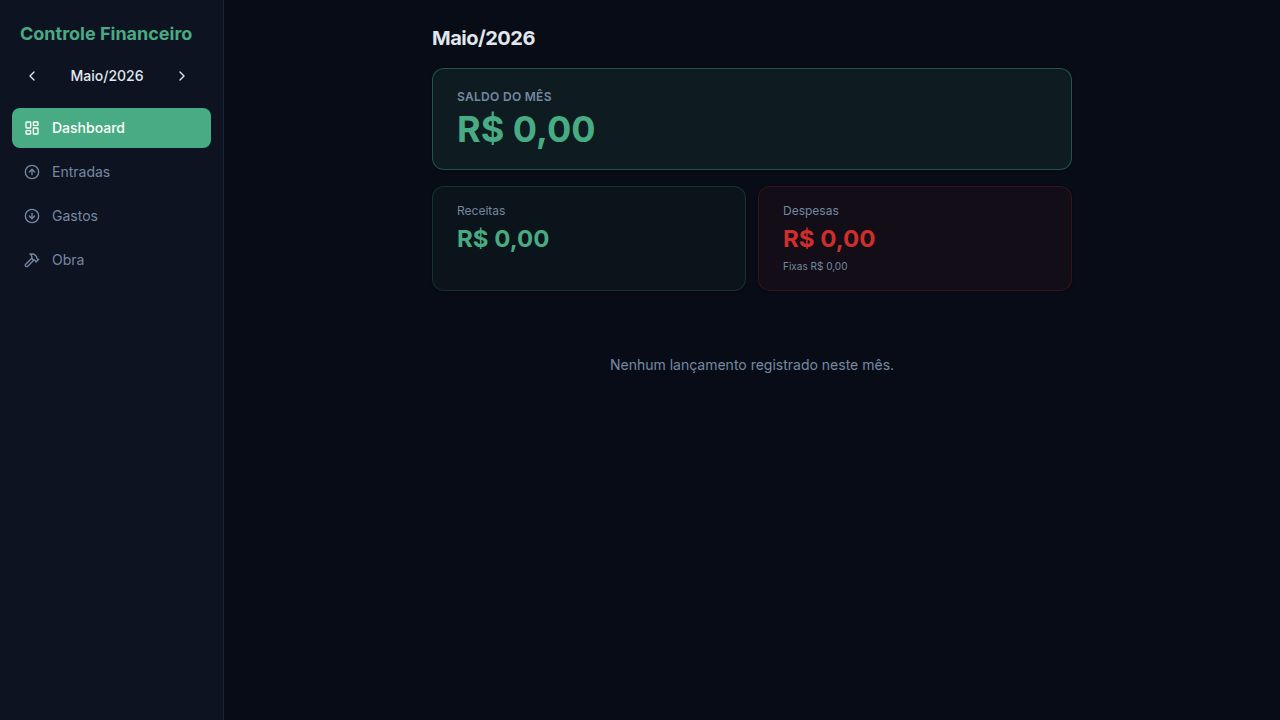
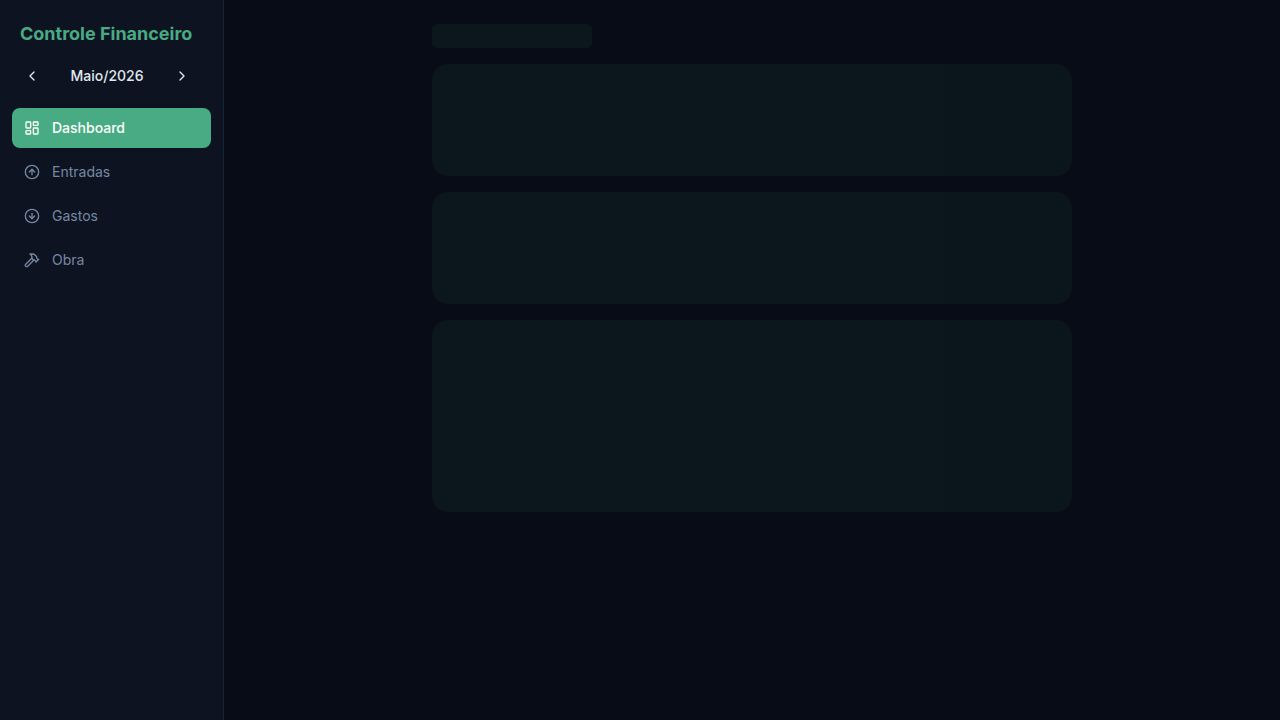
Adjust financial display values to fit better on mobile screens
Update font sizes and apply word-breaking to financial summary cards across dashboard, income, and expense pages to ensure readability on smaller viewports.

Replit-Commit-Author: Agent
Replit-Commit-Session-Id: 07a1a227-7db7-4ac0-8c3b-9105250a2b3c
Replit-Commit-Checkpoint-Type: full_checkpoint
Replit-Commit-Event-Id: 6fee881f-464e-4960-8eed-000a09e708b8
Replit-Commit-Screenshot-Url: https://storage.googleapis.com/screenshot-production-us-central1/a6cc8d7f-49c7-419e-835b-ef4e2de78bc1/07a1a227-7db7-4ac0-8c3b-9105250a2b3c/WjtcErR
Replit-Helium-Checkpoint-Created: true

diff --git a/artifacts/financeiro/src/pages/dashboard.tsx b/artifacts/financeiro/src/pages/dashboard.tsx
@@ -54,7 +54,7 @@ export default function Dashboard() {
           <Card className={`transition-all duration-150 ${summary.balance >= 0 ? "border-primary/40 bg-primary/10 hover:bg-primary/15" : "border-destructive/40 bg-destructive/10 hover:bg-destructive/15"}`}>
             <CardContent className="pt-5 pb-5">
               <p className="text-xs font-semibold text-muted-foreground uppercase tracking-wide mb-1">Saldo do mês</p>
-              <p className={`text-4xl font-bold ${summary.balance >= 0 ? "text-primary" : "text-destructive"}`}>
+              <p className={`text-3xl font-bold break-all ${summary.balance >= 0 ? "text-primary" : "text-destructive"}`}>
                 {formatCurrency(summary.balance)}
               </p>
             </CardContent>
@@ -65,13 +65,13 @@ export default function Dashboard() {
             <Card className="border-primary/20 bg-primary/5 hover:bg-primary/10 transition-all duration-150">
               <CardContent className="pt-4 pb-4">
                 <p className="text-xs text-muted-foreground mb-1">Receitas</p>
-                <p className="text-2xl font-bold text-primary">{formatCurrency(summary.totalIncome)}</p>
+                <p className="text-lg font-bold text-primary break-all">{formatCurrency(summary.totalIncome)}</p>
               </CardContent>
             </Card>
             <Card className="border-destructive/20 bg-destructive/5 hover:bg-destructive/10 transition-all duration-150">
               <CardContent className="pt-4 pb-4">
                 <p className="text-xs text-muted-foreground mb-1">Despesas</p>
-                <p className="text-2xl font-bold text-destructive">{formatCurrency(summary.totalExpenses)}</p>
+                <p className="text-lg font-bold text-destructive break-all">{formatCurrency(summary.totalExpenses)}</p>
                 <p className="text-[10px] text-muted-foreground mt-1">Fixas {formatCurrency(summary.fixedTotal)}</p>
               </CardContent>
             </Card>
@@ -82,7 +82,7 @@ export default function Dashboard() {
             <Card className="border-amber-500/30 bg-amber-500/10 hover:bg-amber-500/15 transition-all duration-150">
               <CardContent className="pt-4 pb-4">
                 <p className="text-xs text-amber-400/80 mb-1 font-medium">Obra este mês</p>
-                <p className="text-2xl font-bold text-amber-400">{formatCurrency(summary.obraTotal)}</p>
+                <p className="text-lg font-bold text-amber-400 break-all">{formatCurrency(summary.obraTotal)}</p>
               </CardContent>
             </Card>
           )}

diff --git a/artifacts/financeiro/src/pages/gastos.tsx b/artifacts/financeiro/src/pages/gastos.tsx
@@ -246,19 +246,19 @@ export default function Gastos() {
           <Card className="border-destructive/30 bg-destructive/10 hover:bg-destructive/15 transition-all duration-150">
             <CardContent className="py-3 px-3">
               <p className="text-[10px] text-muted-foreground mb-0.5">Total</p>
-              <p className="text-base font-bold text-destructive">{formatCurrency(total)}</p>
+              <p className="text-sm font-bold text-destructive break-all">{formatCurrency(total)}</p>
             </CardContent>
           </Card>
           <Card className="border-primary/20 bg-primary/5 hover:bg-primary/10 transition-all duration-150">
             <CardContent className="py-3 px-3">
               <p className="text-[10px] text-muted-foreground mb-0.5">Fixos</p>
-              <p className="text-base font-bold text-primary">{formatCurrency(fixedTotal)}</p>
+              <p className="text-sm font-bold text-primary break-all">{formatCurrency(fixedTotal)}</p>
             </CardContent>
           </Card>
           <Card className="hover:bg-muted/20 transition-all duration-150">
             <CardContent className="py-3 px-3">
               <p className="text-[10px] text-muted-foreground mb-0.5">Variáveis</p>
-              <p className="text-base font-bold">{formatCurrency(varTotal)}</p>
+              <p className="text-sm font-bold break-all">{formatCurrency(varTotal)}</p>
             </CardContent>
           </Card>
         </div>

diff --git a/artifacts/financeiro/src/pages/entradas.tsx b/artifacts/financeiro/src/pages/entradas.tsx
@@ -175,7 +175,7 @@ export default function Entradas() {
                 <div className="flex items-center gap-2 mb-1">
                   <PersonBadge person="gabriel" />
                 </div>
-                <p className="text-lg font-bold text-blue-300">{formatCurrency(gabrielTotal)}</p>
+                <p className="text-base font-bold text-blue-300 break-all">{formatCurrency(gabrielTotal)}</p>
               </CardContent>
             </Card>
             <Card className="border-purple-500/20 bg-purple-500/5 hover:bg-purple-500/10 transition-all duration-150">
@@ -183,7 +183,7 @@ export default function Entradas() {
                 <div className="flex items-center gap-2 mb-1">
                   <PersonBadge person="fernanda" />
                 </div>
-                <p className="text-lg font-bold text-purple-300">{formatCurrency(fernandaTotal)}</p>
+                <p className="text-base font-bold text-purple-300 break-all">{formatCurrency(fernandaTotal)}</p>
               </CardContent>
             </Card>
           </div>